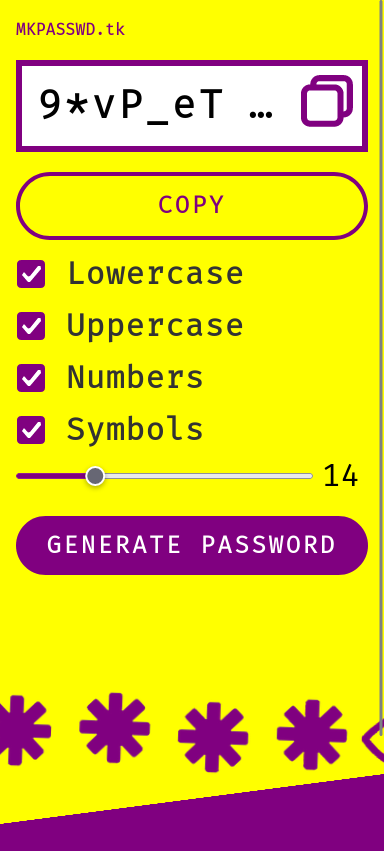
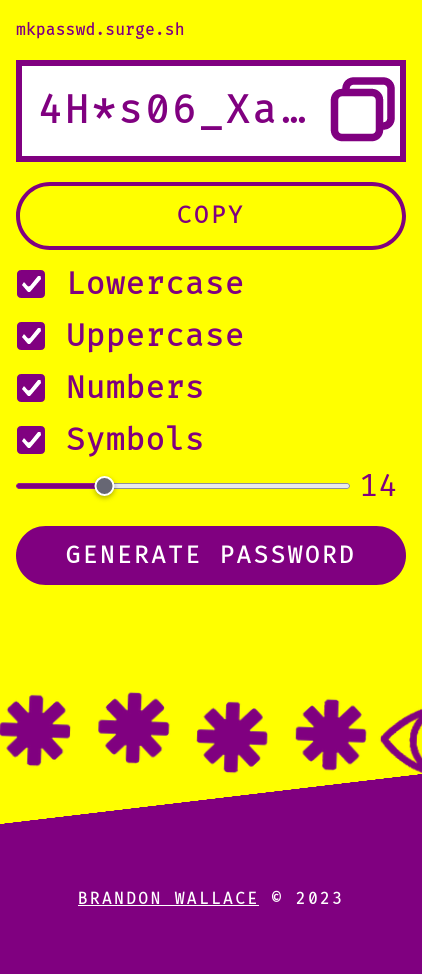
Update domain name and screenshots

diff --git a/index.html b/index.html
@@ -26,7 +26,7 @@
 
     <header>
 
-      <h1 class="header-title">MKPASSWD.tk</h1>
+      <h1 class="header-title">mkpasswd.surge.sh</h1>
 
     </header>
 

diff --git a/readme.md b/readme.md
@@ -8,7 +8,7 @@
 * CSS
 * Javascript
 
-[mkpasswd.tk](https://mkpasswd.tk)
+[mkpasswd.surge.sh](https://mkpasswd.surge.sh)
 
 ![screenshot1](screenshot1.png)
 
